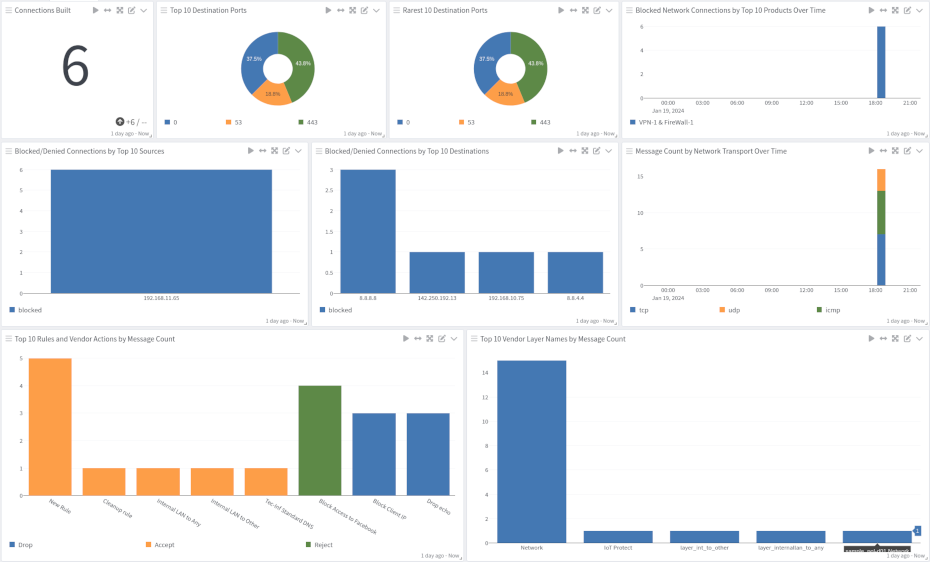
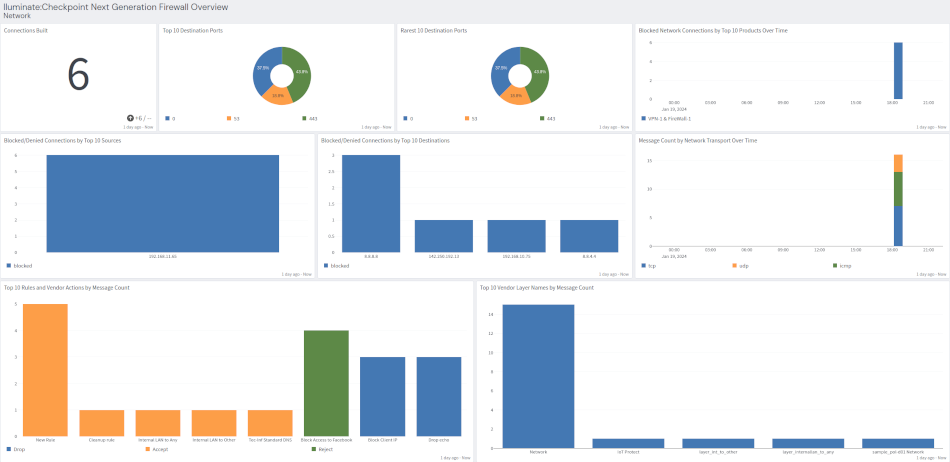
Updated Checkpoint FW Network image
Added Checkpoint FW Authentication image

diff --git a/Content/Content Packs/Checkpoint Next Generation Firewall Security Content Pack.htm b/Content/Content Packs/Checkpoint Next Generation Firewall Security Content Pack.htm
@@ -129,6 +129,9 @@
             <li>
                 <p>Checkpoint NGFW: Network Tab<br /><img src="../Resources/Images/Checkpoint NGFW-Network Tab.png" /></p>
             </li>
+            <li>
+                <p>Checkpoint NGFW: Authentication Tab<br /><img src="../Resources/Images/Checkpoint NGFW-Authentication Tab.png" /></p>
+            </li>
         </ul>
     </body>
 </html>
